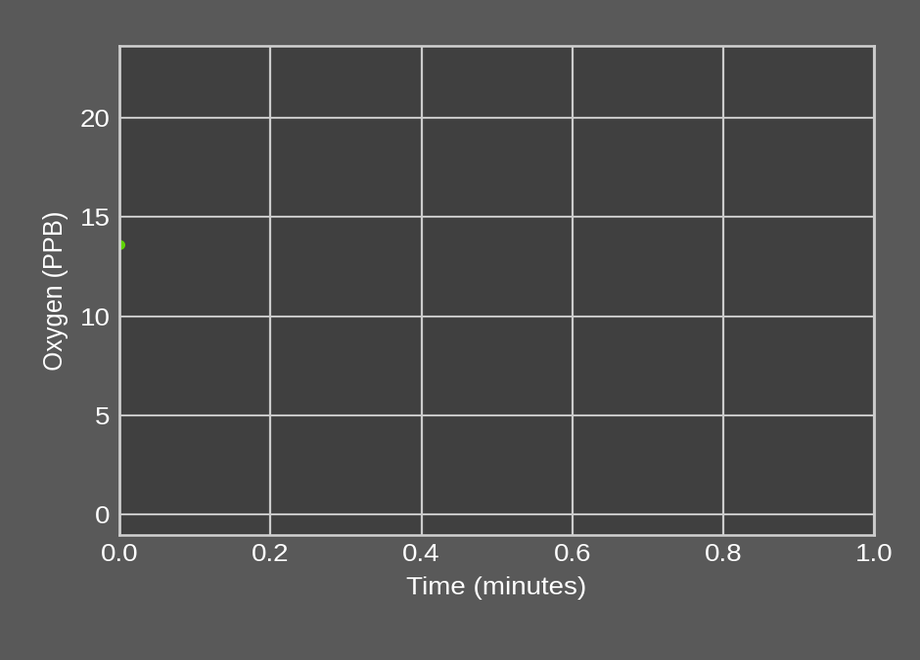
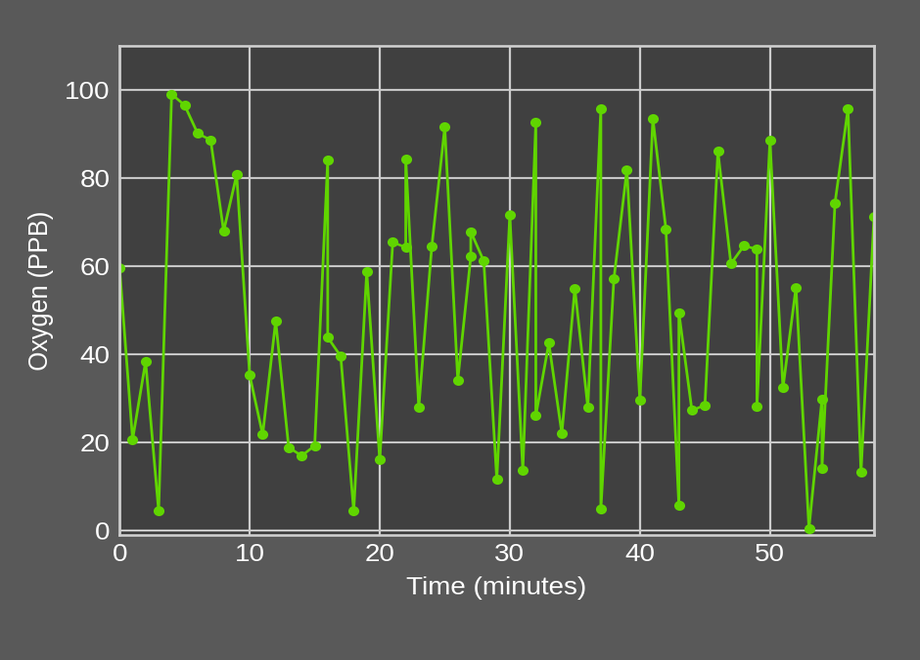
add test mode

Changed region(s): [[0.0304, 0.0909, 0.9739, 0.8485], [0.0609, 0.1212, 0.1217, 0.2121]]

diff --git a/TGView.py b/TGView.py
@@ -697,44 +697,42 @@ class RPiReader(tk.Tk):
             global deltafConnected
             global meecoConnected
             global comPortOxygen
-            # testComOxygen = get_O2(comPortOxygen = '/dev/ttyUSB1')
-            comPortOxygen = '/dev/ttyUSB1'
             # #await asyncio.sleep(0.9)
-            # time.sleep(0.9)
-            deltafConnected = True
-            #
-            # try:
-            #     if 'e' in testComOxygen:
-            #         time.sleep(0.2)
-            #         try:
-            #             testComOxygen = get_O2(comPortOxygen)
-            #             deltafConnected = True
-            #             #print("deltaf connected")
-            #             #await asyncio.sleep(0.2)
-            #             time.sleep(0.2)
-            #         except:
-            #             deltafConnected = False
-            #         comPortOxygen = '/dev/ttyUSB0'
-            #         #await asyncio.sleep(0.2)
-            #         time.sleep(0.2)
-            # except:
-            #     deltafConnected = False
-            #     print("deltaf not connected")
-            #     pass
-            #
-            #
+            time.sleep(0.9)
+            try:
+                comPortOxygen = '/dev/ttyUSB1'
+                testComOxygen = get_O2(comPortOxygen=comPortOxygen)
+                deltafConnected = True
+
+                if 'e' in testComOxygen:
+                    time.sleep(0.2)
+                    try:
+                        testComOxygen = get_O2(comPortOxygen)
+                        deltafConnected = True
+                        #print("deltaf connected")
+                        #await asyncio.sleep(0.2)
+                        time.sleep(0.2)
+                    except:
+                        deltafConnected = False
+                    comPortOxygen = '/dev/ttyUSB0'
+                    #await asyncio.sleep(0.2)
+                    time.sleep(0.2)
+            except:
+                deltafConnected = False
+                print("deltaf not connected")
+                pass
+
+
             global comPortMoist
             comPortMoist = '/dev/ttyUSB0'
-            # try:
-            #     testComMoisture = raw_to_ppb(get_h20(comPortMoist))
-            #     comPortMoist = '/dev/ttyUSB0'
-            #     meecoConnected = True
-            # except:
-            #     try:
-            #         comPortMoist = '/dev/ttyUSB1'
-            #         meecoConnected = True
-            #     except:
-            meecoConnected = True
+            try:
+                testComMoisture = raw_to_ppb(get_h20(comPortMoist))
+                comPortMoist = '/dev/ttyUSB0'
+                meecoConnected = True
+            except:
+                comPortMoist = '/dev/ttyUSB1'
+                meecoConnected = False
+
             #         print("meeco not connected")
             # #await asyncio.sleep(1)
             time.sleep(1)
@@ -3897,8 +3895,7 @@ def animateo2(i):  #### animation function. despite the name it actually animate
                     # await asyncio.sleep(0.02)
                     # time.sleep(0.02)
                     # print('..... attempting with ' + comPortOxygen + '.....')
-                    # o2 = get_O2(comPortOxygen)  #### comment out for random data###
-                    o2 = str(random.random() * 100)
+                    o2 = get_O2(comPortOxygen)  #### comment out for random data###
 
                     if 'e' in o2:
                         currento2.set('N/A')
@@ -3918,6 +3915,15 @@ def animateo2(i):  #### animation function. despite the name it actually animate
                     # time.sleep(0.02)
                     attempts += 1
                     if attempts > 14:
+                        ## RUNNING AS DEMO VALUES
+                        o2 = str(random.random() * 100)
+                        o2 = round(float(o2), 1)
+                        currento2.set(o2)
+                        deltafConnected = True
+                        attempts = 15
+                        break
+                        ##############
+
                         o2 = 9999
                         deltafConnected = False
                         print('attempt FAILED for O2')
@@ -3927,6 +3933,7 @@ def animateo2(i):  #### animation function. despite the name it actually animate
                                 "\n\n\n\n\n\n\n\n\n\n\n\n\n\n\n\nDELTAF WAS DISCONNECTED DURING TESTING. PLEASE RESTART TGVIEW\n\n\n\n\n")
                             fuckitup('disconnect')
                             break
+
         elif deltafConnected == False and var2.get() != 'radH2O':
             attempts = 0
             while attempts < 3:
@@ -3934,8 +3941,8 @@ def animateo2(i):  #### animation function. despite the name it actually animate
                     # await asyncio.sleep(0.02)
                     # time.sleep(0.02)
                     # print('..... attempting with ' + comPortOxygen + '.....')
-                    # o2 = get_O2(comPortOxygen)  #### comment out for random data###
-                    o2 = str(random.random() * 100)
+                    o2 = get_O2(comPortOxygen)  #### comment out for random data###
+
                     # print(o2)
                     if 'e' in o2:
                         currento2.set('N/A')
@@ -3955,6 +3962,14 @@ def animateo2(i):  #### animation function. despite the name it actually animate
                     # await asyncio.sleep(0.02)
                     # time.sleep(0.02)
                     if attempts > 1:
+                        ## RUNNING AS DEMO VALUES
+                        o2 = str(random.random() * 100)
+                        o2 = round(float(o2), 1)
+                        currento2.set(o2)
+                        deltafConnected = True
+                        attempts = 15
+                        break
+
                         o2 = 9999
                         deltafConnected = False
                         print('attempt FAILED for O2')
@@ -6154,8 +6169,8 @@ def manage_pdf():
 
     root.mainloop()
 
-
-app = RPiReader()
-ani1 = animation.FuncAnimation(f1, animateo2, interval=intervalO2)
-ani2 = animation.FuncAnimation(f2, animateh2o, interval=intervalH2O)
-app.mainloop()
+if __name__ == '__main__':
+    app = RPiReader()
+    ani1 = animation.FuncAnimation(f1, animateo2, interval=intervalO2)
+    ani2 = animation.FuncAnimation(f2, animateh2o, interval=intervalH2O)
+    app.mainloop()
